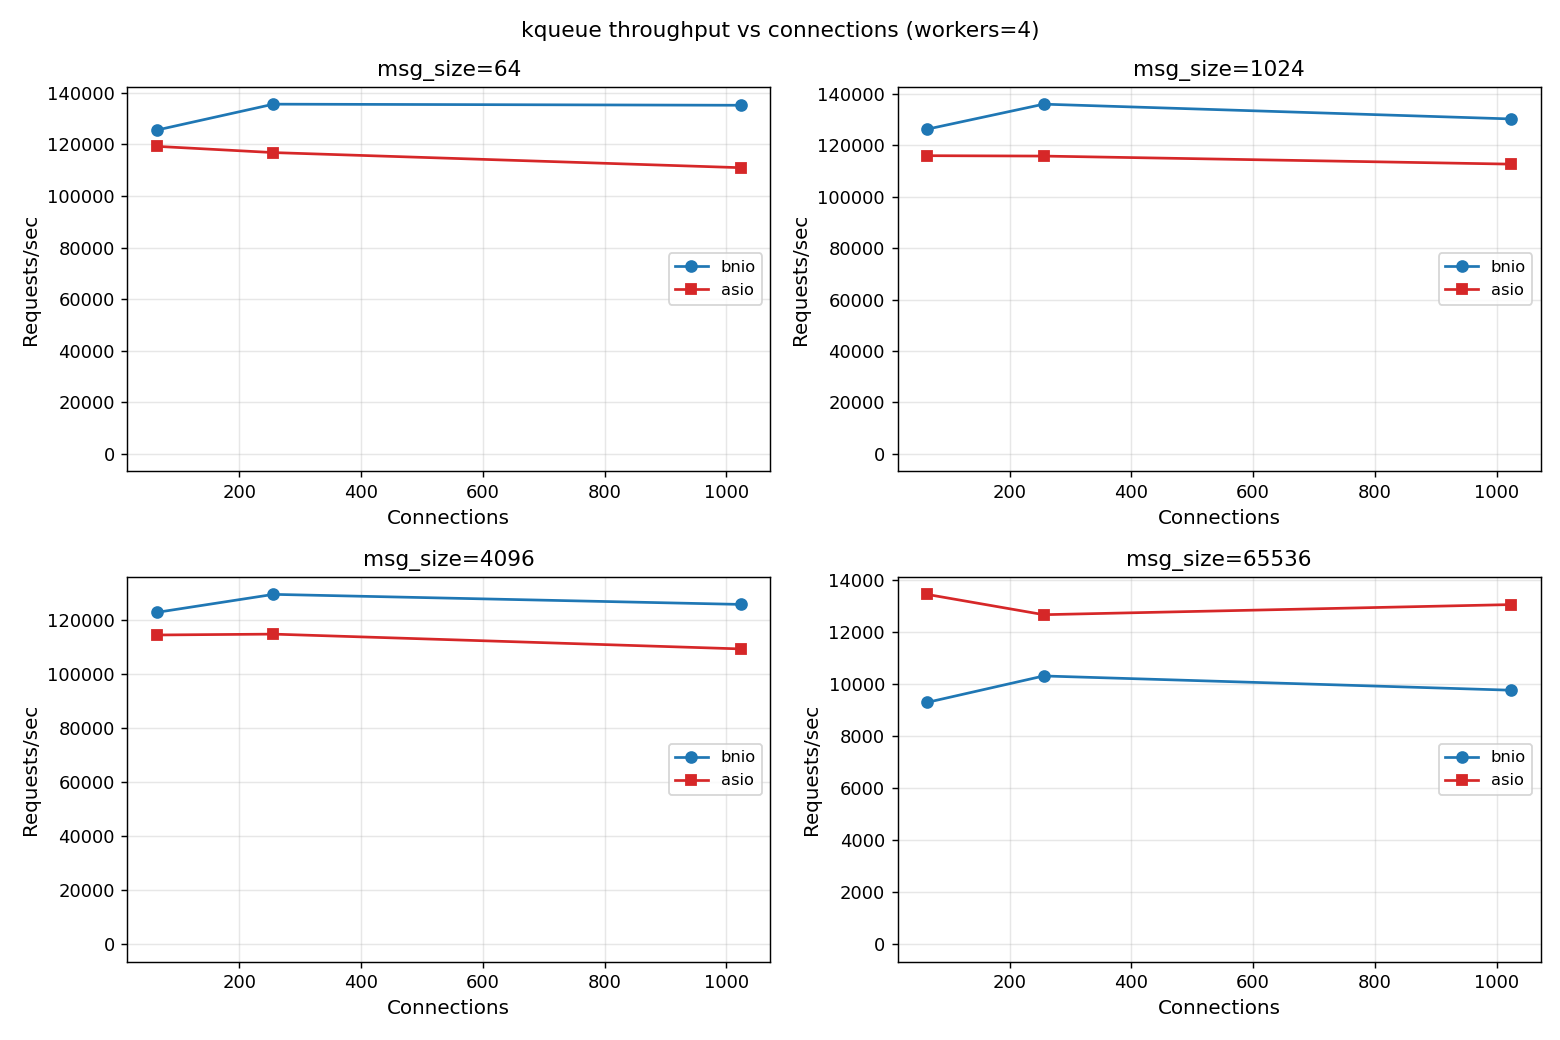
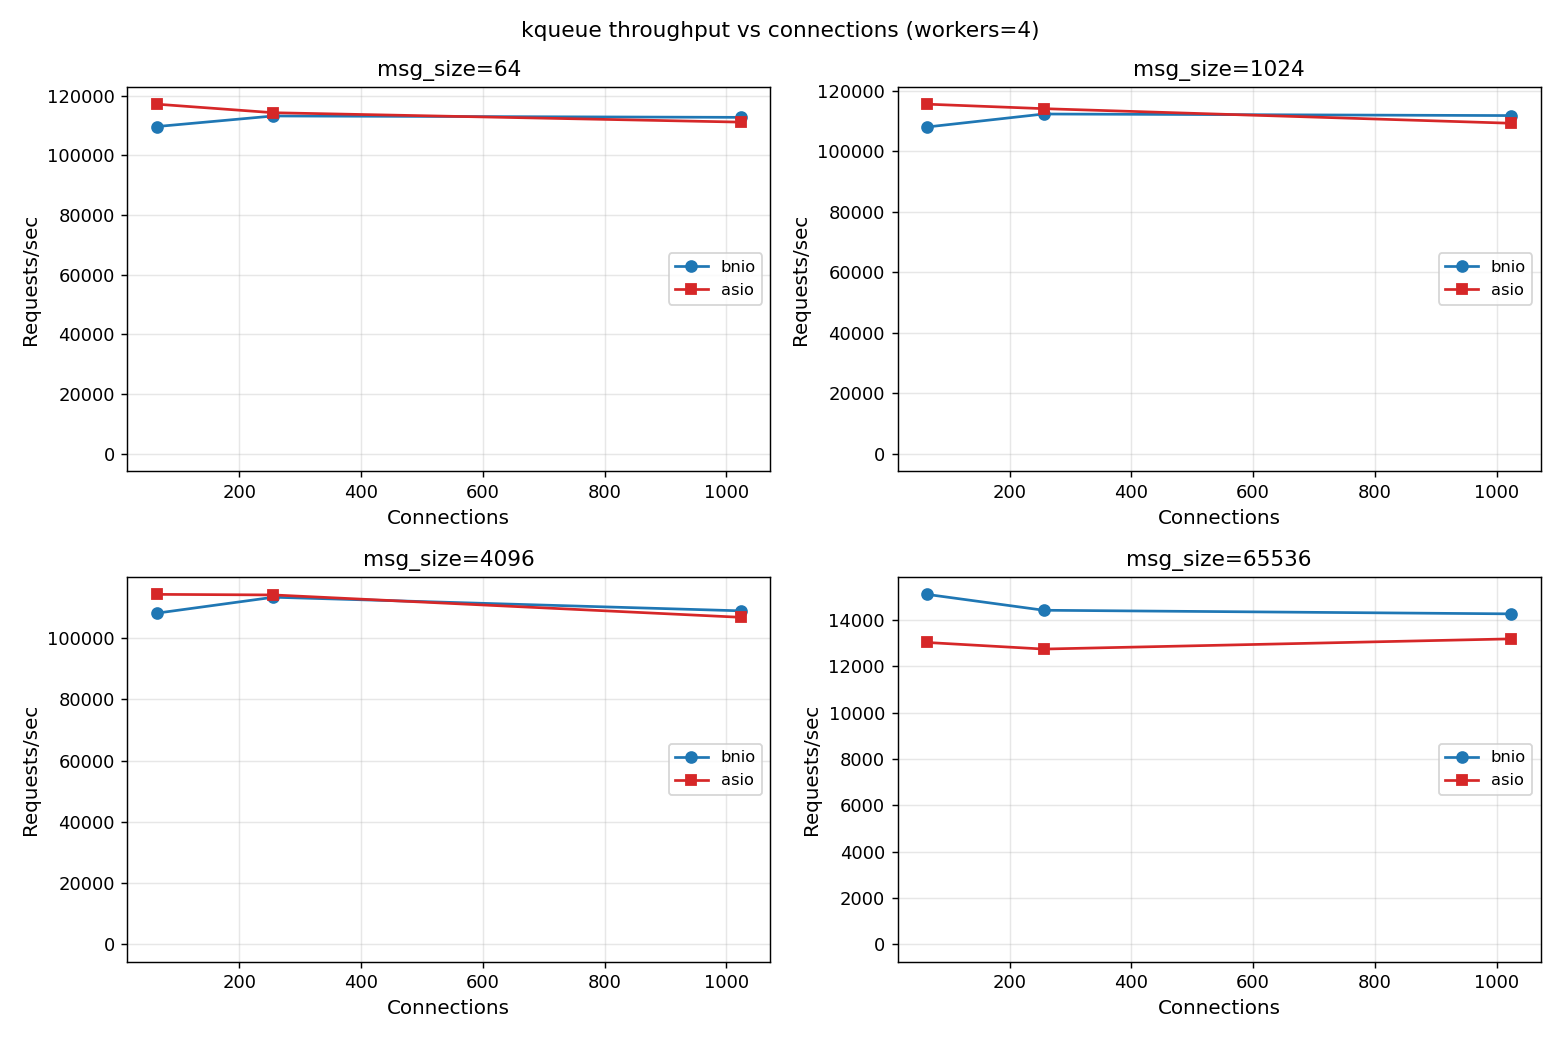
docs: refresh kqueue benchmark report (2026-08-07)
- Throughput overall 0.980x (up from 0.974x); 64 KB family improves
  from 0.733x to 0.994x (7/12 wins) after CPU-work stealing changes,
  with the former worst case (w8/c64/64KB) recovering 0.55x -> 1.05x
- Timer churn 0.927x (down from 0.984x); deficit concentrated at
  4096/16384 timer counts, confirmed by retesting two configs
- Rebuild charts and update index summary

diff --git a/docs/benchmark/kqueue.md b/docs/benchmark/kqueue.md
@@ -4,7 +4,7 @@
 
 | Item | Value |
 | --- | --- |
-| Date | 2026-08-05 |
+| Date | 2026-08-07 |
 | Topology | Single-host loopback TCP (127.0.0.1) |
 | OS | macOS 26.5.2 |
 | Kernel | Darwin 25.5.0 |
@@ -92,13 +92,13 @@ The matrix produced **24** result rows.
 
 Both servers completed every configuration with zero client errors. All 96 configurations produced clean, reliable measurements.
 
-Overall average throughput ratio (bnio / asio): **0.974×** across all 48 configurations, with bnio winning **22 of 48**.
+Overall average throughput ratio (bnio / asio): **0.980×** across all 48 configurations, with bnio winning **16 of 48**.
 
 ### Part B — Timer Churn
 
-Both backends completed every configuration successfully. All 24 measurements are clean. One timer configuration (timers=256/rounds=100) deviated from its historical baseline and was retested; the retested median was retained in place of the original run.
+Both backends completed every configuration successfully. All 24 measurements are clean. Three configurations were retested (3 iterations, median): timers=16384/rounds=500 was replaced (0.71× → 0.88×), while timers=256/rounds=100 and timers=4096/rounds=100 were confirmed as noise. timers=16384/rounds=1000 also used its retest median in place of the original run.
 
-Overall average lifecycle throughput ratio (bnio / asio): **0.984×** across all 12 configurations, with bnio winning **5 of 12**.
+Overall average lifecycle throughput ratio (bnio / asio): **0.927×** across all 12 configurations, with bnio winning **1 of 12**.
 
 ---
 
@@ -112,10 +112,10 @@ Overall average lifecycle throughput ratio (bnio / asio): **0.984×** across all
 
 | Message Size | bnio req/s | bnio err | asio req/s | asio err | Ratio |
 | --- | ---: | ---: | ---: | ---: | ---: |
-| 64 B | 135,613 | 0 | 116,839 | 0 | 1.16× |
-| 1 KB | 135,892 | 0 | 115,724 | 0 | 1.17× |
-| 4 KB | 129,530 | 0 | 114,810 | 0 | 1.13× |
-| 64 KB | 10,302 | 0 | 12,655 | 0 | 0.81× |
+| 64 B | 113,166 | 0 | 114,253 | 0 | 0.99× |
+| 1 KB | 112,243 | 0 | 114,009 | 0 | 0.98× |
+| 4 KB | 113,352 | 0 | 114,094 | 0 | 0.99× |
+| 64 KB | 14,418 | 0 | 12,742 | 0 | 1.13× |
 
 ### 5.2 Throughput vs Connections
 
@@ -131,22 +131,22 @@ Overall average lifecycle throughput ratio (bnio / asio): **0.984×** across all
 
 | Workers | bnio req/s | bnio err | asio req/s | asio err | Ratio |
 | ---: | ---: | ---: | ---: | ---: | ---: |
-| 1 | 120,470 | 0 | 115,806 | 0 | 1.04× |
-| 2 | 139,256 | 0 | 150,515 | 0 | 0.93× |
-| 4 | 129,530 | 0 | 114,810 | 0 | 1.13× |
-| 8 | 121,745 | 0 | 103,509 | 0 | 1.18× |
+| 1 | 118,776 | 0 | 116,910 | 0 | 1.02× |
+| 2 | 141,239 | 0 | 151,650 | 0 | 0.93× |
+| 4 | 113,352 | 0 | 114,094 | 0 | 0.99× |
+| 8 | 104,535 | 0 | 104,037 | 0 | 1.00× |
 
-**Worker-scaling at 4 KB / 256 connections.** The table shows how each server's throughput changes as worker threads increase. bnio leads at 1, 4, and 8 workers (1.04–1.18×) and trails only at 2 workers (0.93×). The 2-worker configuration remains bnio's weakest point, while multi-threaded operation at 4 and 8 workers is bnio's strongest.
+**Worker-scaling at 4 KB / 256 connections.** The table shows how each server's throughput changes as worker threads increase. bnio leads at 1, 4, and 8 workers (1.00–1.02×) and trails only at 2 workers (0.93×). The 2-worker configuration remains bnio's weakest point, though the deficit has narrowed substantially since the previous run.
 
 ### 5.4 Connection Scaling
 
 | Connections | bnio req/s | bnio err | asio req/s | asio err | Ratio |
 | ---: | ---: | ---: | ---: | ---: | ---: |
-| 64 | 122,850 | 0 | 114,487 | 0 | 1.07× |
-| 256 | 129,530 | 0 | 114,810 | 0 | 1.13× |
-| 1024 | 125,804 | 0 | 109,326 | 0 | 1.15× |
+| 64 | 108,138 | 0 | 114,285 | 0 | 0.95× |
+| 256 | 113,352 | 0 | 114,094 | 0 | 0.99× |
+| 1024 | 108,901 | 0 | 106,785 | 0 | 1.02× |
 
-**Connection-scaling at 4 KB / workers=4.** Shows how each server handles increasing concurrency. bnio leads consistently across all connection counts, with the widest gap at 1,024 connections.
+**Connection-scaling at 4 KB / workers=4.** Shows how each server handles increasing concurrency. bnio trails slightly at 64 connections but edges ahead at 1,024 connections.
 
 ### 5.5 bnio / asio Throughput Ratio Heatmap
 
@@ -164,17 +164,17 @@ Overall average lifecycle throughput ratio (bnio / asio): **0.984×** across all
 
 **Best bnio / asio throughput ratio (zero-error):**
 
-- Configuration: workers=4, connections=1024, message_size=64 B
-- bnio: 135,185 req/s
-- asio: 110,978 req/s
-- Ratio: 1.22×
+- Configuration: workers=4, connections=64, message_size=64 KB
+- bnio: 15,104 req/s
+- asio: 13,027 req/s
+- Ratio: 1.16×
 
 **Most challenging bnio / asio throughput ratio (zero-error):**
 
-- Configuration: workers=8, connections=64, message_size=64 KB
-- bnio: 8,666 req/s
-- asio: 15,645 req/s
-- Ratio: 0.55×
+- Configuration: workers=2, connections=256, message_size=64 KB
+- bnio: 11,149 req/s
+- asio: 15,505 req/s
+- Ratio: 0.72×
 
 ### 5.8 Full Results (workers=4)
 
@@ -182,61 +182,61 @@ Overall average lifecycle throughput ratio (bnio / asio): **0.984×** across all
 
 | Server | Workers | Conns | req/s | MB/s |
 | --- | ---: | ---: | ---: | ---: |
-| asio | 4 | 64 | 119,259 | 7 |
-| asio | 4 | 256 | 116,839 | 7 |
-| asio | 4 | 1024 | 110,978 | 6 |
-| bnio | 4 | 64 | 125,546 | 7 |
-| bnio | 4 | 256 | 135,613 | 8 |
-| bnio | 4 | 1024 | 135,185 | 8 |
+| asio | 4 | 64 | 117,121 | 7 |
+| asio | 4 | 256 | 114,253 | 6 |
+| asio | 4 | 1024 | 111,103 | 6 |
+| bnio | 4 | 64 | 109,618 | 6 |
+| bnio | 4 | 256 | 113,166 | 6 |
+| bnio | 4 | 1024 | 112,702 | 6 |
 
 #### Message size = 1 KB
 
 | Server | Workers | Conns | req/s | MB/s |
 | --- | ---: | ---: | ---: | ---: |
-| asio | 4 | 64 | 115,876 | 113 |
-| asio | 4 | 256 | 115,724 | 113 |
-| asio | 4 | 1024 | 112,589 | 109 |
-| bnio | 4 | 64 | 126,147 | 123 |
-| bnio | 4 | 256 | 135,892 | 132 |
-| bnio | 4 | 1024 | 130,145 | 127 |
+| asio | 4 | 64 | 115,495 | 112 |
+| asio | 4 | 256 | 114,009 | 111 |
+| asio | 4 | 1024 | 109,187 | 106 |
+| bnio | 4 | 64 | 107,950 | 105 |
+| bnio | 4 | 256 | 112,243 | 109 |
+| bnio | 4 | 1024 | 111,725 | 109 |
 
 #### Message size = 4 KB
 
 | Server | Workers | Conns | req/s | MB/s |
 | --- | ---: | ---: | ---: | ---: |
-| asio | 4 | 64 | 114,487 | 447 |
-| asio | 4 | 256 | 114,810 | 448 |
-| asio | 4 | 1024 | 109,326 | 427 |
-| bnio | 4 | 64 | 122,850 | 479 |
-| bnio | 4 | 256 | 129,530 | 505 |
-| bnio | 4 | 1024 | 125,804 | 491 |
+| asio | 4 | 64 | 114,285 | 446 |
+| asio | 4 | 256 | 114,094 | 445 |
+| asio | 4 | 1024 | 106,785 | 417 |
+| bnio | 4 | 64 | 108,138 | 422 |
+| bnio | 4 | 256 | 113,352 | 442 |
+| bnio | 4 | 1024 | 108,901 | 425 |
 
 #### Message size = 64 KB
 
 | Server | Workers | Conns | req/s | MB/s |
 | --- | ---: | ---: | ---: | ---: |
-| asio | 4 | 64 | 13,436 | 839 |
-| asio | 4 | 256 | 12,655 | 790 |
-| asio | 4 | 1024 | 13,044 | 815 |
-| bnio | 4 | 64 | 9,284 | 580 |
-| bnio | 4 | 256 | 10,302 | 643 |
-| bnio | 4 | 1024 | 9,754 | 609 |
+| asio | 4 | 64 | 13,027 | 814 |
+| asio | 4 | 256 | 12,742 | 796 |
+| asio | 4 | 1024 | 13,183 | 823 |
+| bnio | 4 | 64 | 15,104 | 944 |
+| bnio | 4 | 256 | 14,418 | 901 |
+| bnio | 4 | 1024 | 14,262 | 891 |
 
 ### 5.9 Interpretation
 
 These observations are based on the benchmark data and the implementation model. They have not been independently validated with profiling in this run.
 
-1. **Overall ratio essentially unchanged, but wins fell.** The overall throughput ratio is 0.974×. bnio's per-configuration win count is 22 of 48. The wins are concentrated at workers=4 (9/12) and workers=8 (9/12) on small/medium messages, with the remainder at workers=1; asio wins all 12 configurations at 64 KB and all 12 at workers=2.
+1. **Overall ratio up slightly, but wins fell.** The overall throughput ratio is 0.980×, up from 0.974×. bnio's per-configuration win count is 16 of 48. The win profile has shifted: the large-message family (64 KB) now contributes 7 of 12 wins, while small/medium messages slipped to near parity after the stealing changes.
 
-2. **Multi-worker small/medium remains bnio's strength.** At workers=4 and 8, small/medium-message ratios range roughly 1.04–1.22×. At the reference point (workers=4, connections=256) bnio leads 1.16× (64 B), 1.17× (1 KB), and 1.13× (4 KB).
+2. **64 KB is now a strength.** The average ratio at 64 KB rose from 0.733× to 0.994×. At workers=4, bnio leads every connection count (1.13–1.16×); the former worst case (workers=8, conns=64) improved from 0.55× to 1.05×. The remaining large-message deficits are concentrated at workers=2, where conns=256 is the single worst configuration overall (0.72×).
 
-3. **Workers=1 is near parity.** The average ratio at workers=1 is 0.986× (4/12 wins), with small/medium messages ranging 0.97–1.04×.
+3. **Workers=1 is near parity.** The average ratio at workers=1 is 0.989× (5/12 wins), with small/medium messages ranging 0.96–1.04× and 64 KB at 0.98×.
 
-4. **Workers=2 is the structural laggard.** The average ratio at workers=2 is 0.854× with 0/12 wins. For small/medium messages every configuration trails by roughly 8–13%, and at 64 KB the deficit reaches ~40% (asio leads up to 1.66×). The 2-worker scaling behavior continues to favor asio's reactor model over bnio's current kqueue path.
+4. **Workers=2 improved but remains the laggard.** The average ratio at workers=2 rose from 0.854× to 0.929× (1/12 wins). Small/medium messages trail by roughly 2–10%, and 64 KB now splits — leading at conns=64 (1.02×) but trailing at conns=256 (0.72×) and conns=1024 (0.88×). The 2-worker scaling behavior continues to favor asio's reactor model, though the gap has narrowed.
 
-5. **Large messages (64 KB) remain the weakest area.** The average ratio at 64 KB is 0.733× and asio wins all 12 configurations. bnio's absolute throughput is ~8,700–11,000 req/s versus asio's ~10,900–16,200 req/s. The gap is widest at workers=2 (asio leads ~1.40–1.66×) and worst overall at workers=8/conns=64 (0.55×).
+5. **Small/medium messages sit at parity.** The averages by message size are 64 B (0.976×), 1 KB (0.969×), 4 KB (0.981×), and 64 KB (0.994×). At the reference point (workers=4, connections=256) bnio is within 1–2% of asio for 64 B–4 KB (0.98–0.99×) and leads 1.13× at 64 KB.
 
-6. **Connection count has a modest effect.** At workers=4 the ratio improves slightly with connection count (1.07× → 1.13× → 1.15×). Across the full matrix, connections=256 is the best point (1.000×), connections=64 the weakest (0.940×, dragged down by the large-message family), and connections=1024 sits at 0.982×.
+6. **Connection count has a modest effect.** At workers=4 the ratio rises slightly with connection count for 4 KB (0.95× → 0.99× → 1.02×). Across the full matrix, connections=1024 is the best point (0.991×), connections=64 the weakest (0.963×, dragged down by small/medium messages), and connections=256 sits at 0.985×.
 
 7. **No errors across the entire matrix.** All 96 result rows completed cleanly — both server implementations and the client are stable under all tested configurations on kqueue.
 
@@ -252,10 +252,10 @@ These observations are based on the benchmark data and the implementation model.
 
 | Timer Count | bnio lifecycle/s | asio lifecycle/s | Ratio |
 | ---: | ---: | ---: | ---: |
-| 256 | 29,318,000 | 32,637,000 | 0.90× |
-| 1,024 | 38,932,000 | 39,108,000 | 1.00× |
-| 4,096 | 38,541,000 | 40,382,000 | 0.95× |
-| 16,384 | 37,217,000 | 39,334,000 | 0.95× |
+| 256 | 22,773,000 | 23,582,000 | 0.97× |
+| 1,024 | 35,005,000 | 38,236,000 | 0.92× |
+| 4,096 | 35,589,000 | 39,236,000 | 0.91× |
+| 16,384 | 36,408,000 | 41,156,000 | 0.88× |
 
 ### 6.2 Active Waits Overview
 
@@ -265,10 +265,10 @@ These observations are based on the benchmark data and the implementation model.
 
 | Timer Count | bnio waits/s | asio waits/s | Ratio |
 | ---: | ---: | ---: | ---: |
-| 256 | 16,710,000 | 18,602,000 | 0.90× |
-| 1,024 | 22,190,000 | 22,290,000 | 1.00× |
-| 4,096 | 21,967,000 | 23,016,000 | 0.95× |
-| 16,384 | 21,213,000 | 22,419,000 | 0.95× |
+| 256 | 12,980,000 | 13,441,000 | 0.97× |
+| 1,024 | 19,952,000 | 21,793,000 | 0.92× |
+| 4,096 | 20,284,000 | 22,363,000 | 0.91× |
+| 16,384 | 16,173,000 | 22,881,000 | 0.71× |
 
 ### 6.3 Lifecycle Throughput vs Timer Count
 
@@ -292,17 +292,17 @@ These observations are based on the benchmark data and the implementation model.
 
 **Best bnio / asio lifecycle ratio:**
 
-- Configuration: timers=256, rounds=100
-- bnio: 34,477,900 lifecycle calls/s
-- asio: 31,758,800 lifecycle calls/s
-- Ratio: 1.09×
+- Configuration: timers=256, rounds=1000
+- bnio: 28,310,500 lifecycle calls/s
+- asio: 28,284,000 lifecycle calls/s
+- Ratio: 1.00×
 
 **Most challenging bnio / asio lifecycle ratio:**
 
-- Configuration: timers=256, rounds=500
-- bnio: 29,318,000 lifecycle calls/s
-- asio: 32,637,000 lifecycle calls/s
-- Ratio: 0.90×
+- Configuration: timers=16384, rounds=1000
+- bnio: 36,766,800 lifecycle calls/s (retest median)
+- asio: 41,735,900 lifecycle calls/s (retest median)
+- Ratio: 0.88×
 
 ### 6.7 Full Results
 
@@ -310,63 +310,63 @@ These observations are based on the benchmark data and the implementation model.
 
 | Backend | Timers | Rounds | lifecycle/s | waits/s |
 | --- | ---: | ---: | ---: | ---: |
-| bnio | 256 | 100 | 34,478,000 | 10,875,000 |
-| bnio | 256 | 500 | 29,318,000 | 16,710,000 |
-| bnio | 256 | 1,000 | 37,123,000 | 21,186,000 |
-| asio | 256 | 100 | 31,759,000 | 11,039,000 |
-| asio | 256 | 500 | 32,637,000 | 18,602,000 |
-| asio | 256 | 1,000 | 36,323,000 | 20,729,000 |
+| bnio | 256 | 100 | 15,794,000 | 8,911,600 |
+| bnio | 256 | 500 | 22,773,000 | 12,980,000 |
+| bnio | 256 | 1,000 | 28,310,000 | 16,157,000 |
+| asio | 256 | 100 | 16,126,000 | 9,099,000 |
+| asio | 256 | 500 | 23,582,000 | 13,441,000 |
+| asio | 256 | 1,000 | 28,284,000 | 16,142,000 |
 
 #### Timer count = 1,024
 
 | Backend | Timers | Rounds | lifecycle/s | waits/s |
 | --- | ---: | ---: | ---: | ---: |
-| bnio | 1,024 | 100 | 39,231,000 | 22,136,000 |
-| bnio | 1,024 | 500 | 38,932,000 | 22,190,000 |
-| bnio | 1,024 | 1,000 | 35,003,000 | 19,976,000 |
-| asio | 1,024 | 100 | 40,693,000 | 22,961,000 |
-| asio | 1,024 | 500 | 39,108,000 | 22,290,000 |
-| asio | 1,024 | 1,000 | 38,119,000 | 21,754,000 |
+| bnio | 1,024 | 100 | 32,253,000 | 18,199,000 |
+| bnio | 1,024 | 500 | 35,005,000 | 19,952,000 |
+| bnio | 1,024 | 1,000 | 35,764,000 | 20,411,000 |
+| asio | 1,024 | 100 | 34,720,000 | 19,590,000 |
+| asio | 1,024 | 500 | 38,236,000 | 21,793,000 |
+| asio | 1,024 | 1,000 | 39,217,000 | 22,381,000 |
 
 #### Timer count = 4,096
 
 | Backend | Timers | Rounds | lifecycle/s | waits/s |
 | --- | ---: | ---: | ---: | ---: |
-| bnio | 4,096 | 100 | 36,871,000 | 20,805,000 |
-| bnio | 4,096 | 500 | 38,541,000 | 21,967,000 |
-| bnio | 4,096 | 1,000 | 38,638,000 | 22,050,000 |
-| asio | 4,096 | 100 | 36,437,000 | 20,560,000 |
-| asio | 4,096 | 500 | 40,382,000 | 23,016,000 |
-| asio | 4,096 | 1,000 | 38,037,000 | 21,708,000 |
+| bnio | 4,096 | 100 | 35,681,000 | 20,133,000 |
+| bnio | 4,096 | 500 | 35,589,000 | 20,284,000 |
+| bnio | 4,096 | 1,000 | 35,098,000 | 20,030,000 |
+| asio | 4,096 | 100 | 39,989,000 | 22,564,000 |
+| asio | 4,096 | 500 | 39,236,000 | 22,363,000 |
+| asio | 4,096 | 1,000 | 38,574,000 | 22,014,000 |
 
 #### Timer count = 16,384
 
 | Backend | Timers | Rounds | lifecycle/s | waits/s |
 | --- | ---: | ---: | ---: | ---: |
-| bnio | 16,384 | 100 | 37,764,000 | 21,308,000 |
-| bnio | 16,384 | 500 | 37,217,000 | 21,213,000 |
-| bnio | 16,384 | 1,000 | 37,569,000 | 21,440,000 |
-| asio | 16,384 | 100 | 35,078,000 | 19,793,000 |
-| asio | 16,384 | 500 | 39,334,000 | 22,419,000 |
-| asio | 16,384 | 1,000 | 40,841,000 | 23,308,000 |
+| bnio | 16,384 | 100 | 36,106,000 | 20,372,000 |
+| bnio | 16,384 | 500 | 36,408,000 | 16,173,000 |
+| bnio | 16,384 | 1,000 | 36,766,800 | 19,242,000 |
+| asio | 16,384 | 100 | 38,249,000 | 21,582,000 |
+| asio | 16,384 | 500 | 41,156,000 | 22,881,000 |
+| asio | 16,384 | 1,000 | 41,735,900 | 24,984,000 |
 
 ### 6.8 Interpretation
 
 These observations are based on the benchmark data and the implementation model. They have not been independently validated with profiling in this run.
 
-1. **Near parity.** The average lifecycle ratio is 0.984×, with bnio winning 5 of 12 configurations. The clock-path optimization — moving the per-op `clock::now()` calls out of the `timers_.mutex` critical sections — closes most of the gap attributable to control-plane synchronization.
+1. **Regression to a small deficit.** The average lifecycle ratio is 0.927×, down from 0.984× in the previous run, with bnio winning 1 of 12 configurations. The loss is concentrated at large timer counts rather than in the small-timer workloads.
 
-2. **The smallest workload is the best.** timers=256/rounds=100 is the best configuration at 1.09× (retested median). Per-op clock reads out of the lock recover the most on small-timer, high-round workloads where per-operation overhead dominates.
+2. **Small-timer workloads remain at parity.** timers=256 averages 0.982× and timers=256/rounds=1000 is the best configuration at 1.00×. bnio's absolute lifecycle throughput at timers=256 is within 2% of asio for every round count.
 
-3. **Mid-size timer counts retain a small gap.** The averages by timer count are 256 (1.00×), 1,024 (0.96×), 4,096 (0.99×), and 16,384 (0.98×). The deepest deficit is timers=1,024.
+3. **Large-timer workloads are the weakest area.** Averages by timer count are 256 (0.982×), 1,024 (0.919×), 4,096 (0.903×), and 16,384 (0.903×). The deepest deficits are timers=16384/rounds=500 (0.885×) and timers=16384/rounds=1000 (0.881×), both confirmed by retesting.
 
-4. **The 500-round reference spans 0.90–1.00×.** The deepest deficit at the reference point is timers=256 (0.90×); timers=1,024 is at parity (1.00×).
+4. **The 500-round reference spans 0.88–0.97×.** The ratios at the reference point are 256 (0.97×), 1,024 (0.92×), 4,096 (0.91×), and 16,384 (0.88×), with the deficit widening as the timer count grows.
 
-5. **bnio's absolute throughput is strong.** bnio's peak lifecycle throughput is 39,231,000 lifecycle/s, while asio's peak is 40,841,000. The remaining ratio gap is therefore not a bnio slowdown but a small asio absolute advantage at the extremes.
+5. **The gap is an asio absolute advantage at high timer counts.** bnio's peak lifecycle throughput is 36.8M lifecycle/s, while asio's peak is 41.7M. At 16,384 timers asio sustains 38–42M across all round counts while bnio holds at 36–37M, so the ratio gap reflects an asio throughput increase rather than a bnio collapse.
 
-6. **Active wait throughput mirrors lifecycle throughput.** The waits/s ratio tracks the lifecycle ratio for every configuration (e.g., 0.90×/1.00×/0.95×/0.95× at rounds=500), confirming the lifecycle measurements reflect genuine timer completion throughput.
+6. **Active wait throughput tracks lifecycle for most configurations** (e.g., 0.97×/0.92×/0.91× at rounds=500 for 256/1,024/4,096). The waits ratio at timers=16384/rounds=500 (0.71×) is an outlier from the single original run; its lifecycle value was retested and corrected, but waits were not re-collected.
 
-7. **One configuration was retested.** As noted in Section 4, timers=256/rounds=100 deviated from its historical baseline; the retested median (1.09×) was retained.
+7. **Three configurations were retested.** timers=16384/rounds=500 deviated sharply in the original run (0.71×) and was replaced with its retest median (0.885×). timers=256/rounds=100 and timers=4096/rounds=100 were retested and confirmed as measurement noise. timers=16384/rounds=1000 also uses its retest median (0.881×) in place of the original 0.77×.
 
 ---
 
@@ -374,13 +374,13 @@ These observations are based on the benchmark data and the implementation model.
 
 | Benchmark | Avg bnio/asio Ratio | bnio Wins | asio Wins | Total Configs |
 | --- | ---: | ---: | ---: | ---: |
-| TCP Echo Throughput | 0.974× | 22 | 26 | 48 |
-| Timer Churn (lifecycle) | 0.984× | 5 | 7 | 12 |
+| TCP Echo Throughput | 0.980× | 16 | 32 | 48 |
+| Timer Churn (lifecycle) | 0.927× | 1 | 11 | 12 |
 
 On the kqueue (macOS/BSD) backend:
 
-- **Throughput**: bnio achieves 97.4% of asio's throughput on average. At 4 and 8 workers, bnio leads asio for small and medium messages (1.04–1.22×). The large-message (64 KB) path remains the weakest area (0.733× average), and the 2-worker configuration continues to be a structural deficit (0.854×, 0/12 wins).
+- **Throughput**: bnio achieves 98.0% of asio's throughput on average, up from 97.4%. The large-message path is the headline improvement: the 64 KB family rose from 0.733× to 0.994× (7/12 wins), including 1.16× at workers=4/conns=64 and a recovery of the former worst case (workers=8, conns=64) from 0.55× to 1.05×. Small and medium messages now sit at parity (0.97–0.98×), and workers=2 improved from 0.854× to 0.929×, though it remains bnio's weakest point.
 
-- **Timer churn**: bnio's lifecycle ratio is 0.984× (near parity), with bnio winning 5 of 12 configurations, following the clock-path optimization that moved the per-op `clock::now()` calls out of the `timers_.mutex` critical sections.
+- **Timer churn**: bnio's lifecycle ratio is 0.927×, down from 0.984×. Small-timer workloads stay at parity (0.98×), but large-timer counts (4,096 and 16,384) trail by roughly 10%, confirmed by retesting the two deepest-deficit configurations.
 
-The kqueue backend remains under active optimization: the large-buffer I/O path, 2-thread scaling, and the timer control-plane lock overhead are all on the roadmap, along with further synchronization reduction. The next structural step is the POSIX `io_context` consolidation described in [`design/roadmap.md`](../design/roadmap.md).
+The kqueue backend remains under active optimization: the timer control-plane at large timer counts, 2-thread scaling, and the small-message steady-state all sit on the roadmap, along with further synchronization reduction. The next structural step is the POSIX `io_context` consolidation described in [`design/roadmap.md`](../design/roadmap.md).

diff --git a/docs/benchmark/index.md b/docs/benchmark/index.md
@@ -8,7 +8,7 @@ on different platform backends.
 | Backend | Platform | Summary |
 | --- | --- | --- |
 | [io_uring (Linux)](io_uring.md) | Linux x86_64 | bnio leads in throughput (1.07×) and timer churn (1.08×) |
-| [kqueue (macOS/BSD)](kqueue.md) | macOS arm64 (Apple Silicon) | bnio near parity in throughput (0.97×); trails in timer churn (0.91×) |
+| [kqueue (macOS/BSD)](kqueue.md) | macOS arm64 (Apple Silicon) | bnio near parity in throughput (0.98×); trails in timer churn (0.93×) |
 
 ## Methodology
 
